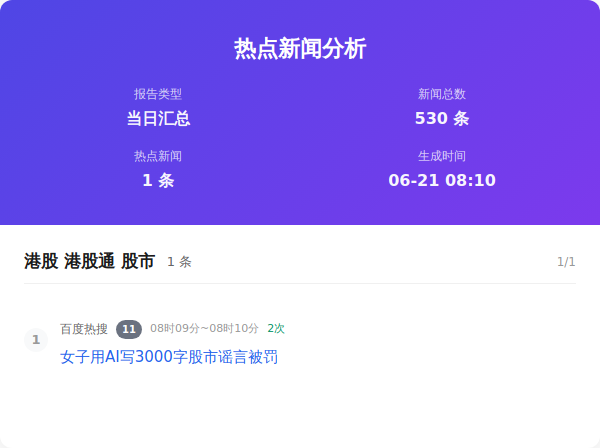
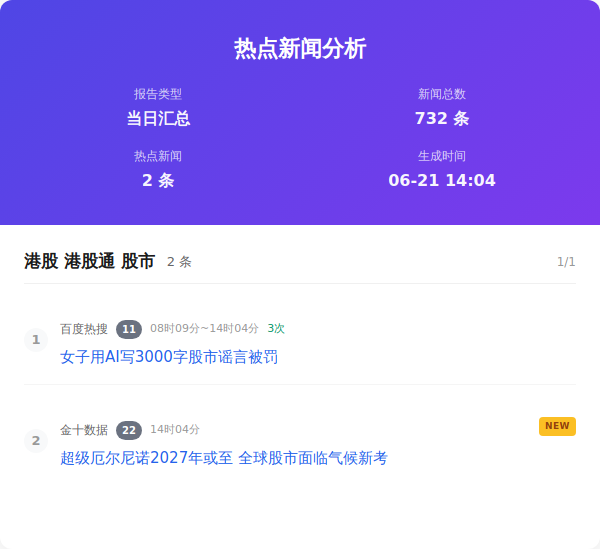
Auto update by GitHub Actions at Sun Jun 21 14:04:41 CST 2026

diff --git a/output/2026年06月21日/html/当日汇总.html b/output/2026年06月21日/html/当日汇总.html
@@ -357,15 +357,15 @@
                     </div>
                     <div class="info-item">
                         <span class="info-label">新闻总数</span>
-                        <span class="info-value">530 条</span>
+                        <span class="info-value">732 条</span>
                     </div>
                     <div class="info-item">
                         <span class="info-label">热点新闻</span>
-                        <span class="info-value">1 条</span>
+                        <span class="info-value">2 条</span>
                     </div>
                     <div class="info-item">
                         <span class="info-label">生成时间</span>
-                        <span class="info-value">06-21 08:10</span>
+                        <span class="info-value">06-21 14:04</span>
                     </div>
                 </div>
             </div>
@@ -375,7 +375,7 @@
                     <div class="word-header">
                         <div class="word-info">
                             <div class="word-name">港股 港股通 股市</div>
-                            <div class="word-count ">1 条</div>
+                            <div class="word-count ">2 条</div>
                         </div>
                         <div class="word-index">1/1</div>
                     </div>
@@ -383,9 +383,19 @@
                         <div class="news-number">1</div>
                         <div class="news-content">
                             <div class="news-header">
-                                <span class="source-name">百度热搜</span><span class="rank-num ">11</span><span class="time-info">08时09分~08时10分</span><span class="count-info">2次</span>
+                                <span class="source-name">百度热搜</span><span class="rank-num ">11</span><span class="time-info">08时09分~14时04分</span><span class="count-info">3次</span>
                             </div>
                             <div class="news-title"><a href="https://www.baidu.com/s?wd=%E5%A5%B3%E5%AD%90%E7%94%A8AI%E5%86%993000%E5%AD%97%E8%82%A1%E5%B8%82%E8%B0%A3%E8%A8%80%E8%A2%AB%E7%BD%9A" target="_blank" class="news-link">女子用AI写3000字股市谣言被罚</a>
+                            </div>
+                        </div>
+                    </div>
+                    <div class="news-item new">
+                        <div class="news-number">2</div>
+                        <div class="news-content">
+                            <div class="news-header">
+                                <span class="source-name">金十数据</span><span class="rank-num ">22</span><span class="time-info">14时04分</span>
+                            </div>
+                            <div class="news-title"><a href="https://flash.jin10.com/detail/20260621104608381800" target="_blank" class="news-link">超级厄尔尼诺2027年或至 全球股市面临气候新考</a>
                             </div>
                         </div>
                     </div>